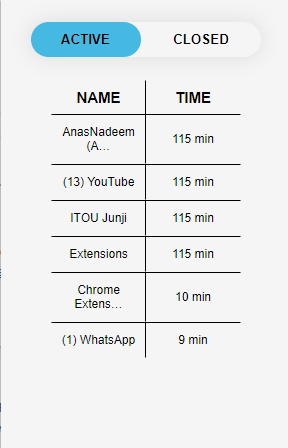
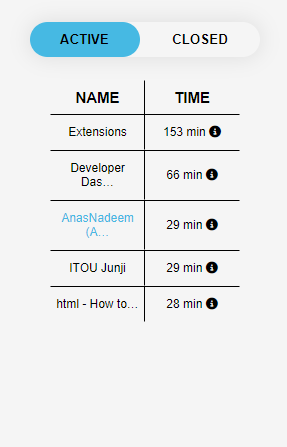
Fixed bug

diff --git a/popup.js b/popup.js
@@ -42,8 +42,9 @@ const displayInTbody = (tab) => {
 	tr.id = tabId;
 
 	const td1 = document.createElement('td');
+	td1.title = tab.title;
 	td1.innerHTML = `
-		<a href="#" title="${tab.title}">
+		<a class="tab-${tab.active}" href="${tab.url}" title="${tab.title}">
 			${truncate(tab.title, 14)}
 		</a>
 	`;
@@ -59,22 +60,22 @@ const displayInTbody = (tab) => {
 	return tr.outerHTML;
 }
 
-const displayInModalBody = (tab) => {
+const displayInModalBody = (tab, visitedUrlInTab) => {
 	const tr = document.createElement('tr');
 	const td1 = document.createElement('td');
-	td1.title = tab.title;
+	td1.title = visitedUrlInTab.title;
 	td1.innerHTML = `
-		<a href="${tab.url}" title="${tab.url}">
-			${truncate(tab.title, 14)}
+		<a class="tab-${tab.active}" href="${visitedUrlInTab.url}" title="${visitedUrlInTab.url}">
+			${truncate(visitedUrlInTab.title, 14)}
 		</a>
 	`;
 
 	const td2 = document.createElement('td');
-	if(tab.timeDiffInSec){
-		td2.innerHTML = formatTime(tab.timeDiffInSec);
+	if(visitedUrlInTab.timeDiffInSec){
+		td2.innerHTML = formatTime(visitedUrlInTab.timeDiffInSec);
 	}else{
 		const endTime = new Date().getTime();
-		const timeDiffInSec = (endTime - tab.startTime)/1000;
+		const timeDiffInSec = (endTime - visitedUrlInTab.startTime)/1000;
 		td2.innerHTML = formatTime(timeDiffInSec) + ' (current)';
 	}
 	tr.appendChild(td1);
@@ -114,7 +115,7 @@ const openModelOnClick = (e) => {
 		const tabTracker = currentTab.tabTracker;
 		modalBody.innerHTML = "";
 		for (const visitedTab of tabTracker){
-			const visitedTabRow = displayInModalBody(visitedTab);
+			const visitedTabRow = displayInModalBody(currentTab, visitedTab);
 			modalBody.innerHTML += visitedTabRow;
 		}
 		modal.style.display = "block";

diff --git a/background.js b/background.js
@@ -54,6 +54,13 @@ chrome.tabs.onRemoved.addListener((tabId, removeInfo) => {
 	chrome.storage.local.get(tabIdString, (result) => {
 		const time = new Date().getTime();
 		result[tabIdString]['endTime'] = time;
+		result[tabIdString]['active'] = false;
+		// Updating the last tabTracker
+		const tabTracker = result[tabIdString]['tabTracker']
+		result[tabIdString]['tabTracker'][tabTracker.length - 1]['endTime'] = time;
+		const lastTabStartTime = tabTracker[tabTracker.length - 1]['startTime'];
+		const timeDiffInSec = (time - lastTabStartTime)/1000;
+		result[tabIdString]['tabTracker'][tabTracker.length - 1]['timeDiffInSec'] = timeDiffInSec;
 		chrome.storage.local.set(result);
 	});
 });
@@ -66,6 +73,7 @@ chrome.windows.onRemoved.addListener((windowId) => {
 				continue;
 			}
 			result[tabId]['endTime'] = time;
+			result[tabId]['active'] = false;
 			chrome.storage.local.set(result);
 		}
 	});

diff --git a/popup.css b/popup.css
@@ -5,6 +5,7 @@
 :root {
     --accentCol: #f5f5f5;
     --shadowCol: #e0e0e0;
+    --mainCol: #46b9e3;
 }
 
 body{
@@ -42,14 +43,14 @@ body{
     position: absolute;
     height: 100%;
     width: 110px;
-    background: #46b9e3;
+    background: var(--mainCol);
     border-radius: 30px;
     transition: 0.5s;
 }
 .clearBtn{
     margin-top: 15px;
     padding: 10px 30px;
-    background: #46b9e3;
+    background: var(--mainCol);
     border-radius: 30px;
     cursor: pointer;
     outline: none;
@@ -115,7 +116,19 @@ td {
     font-size: 12px;
     padding: 10px 5px 10px 5px;
 }
-
+a{
+    text-decoration: none;
+}
+/* a:focus,
+a:hover{
+    text-decoration: none;
+} */
+.tab-true{
+    color: var(--mainCol);
+}
+.tab-false{
+    color: black;
+}
 /* Modal CSS */
 .modal {
     display: none; /* Hidden by default */
